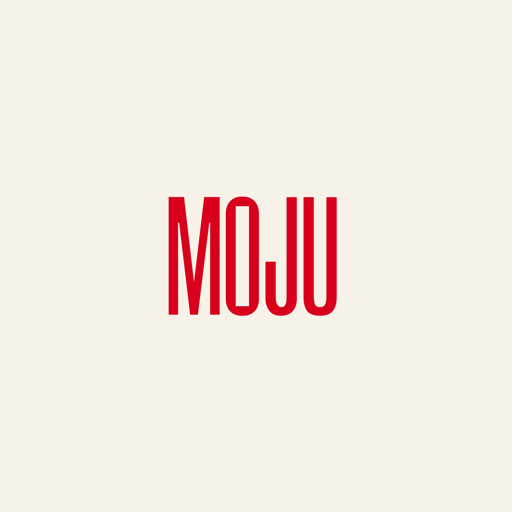
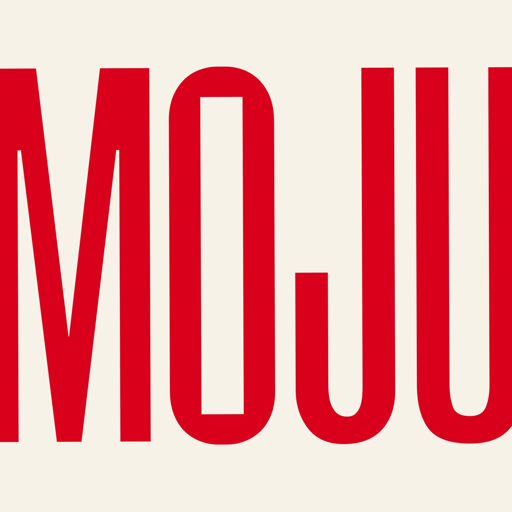
Yeni uygulama ikonu, sekme simgesi önbelleği yenilendi

diff --git a/index.html b/index.html
@@ -5,8 +5,8 @@
   <meta name="viewport" content="width=device-width, initial-scale=1">
   <title>Moju · Your life, on paper</title>
   <meta name="description" content="Moju is a notebook for everything you love: a vision board for your dreams, a travel diary for the places you've been, a journal for everyday moments. Cut photos, add videos that move on the page, washi tape and stickers, and write in your own hand.">
-  <link rel="icon" href="assets/favicon.png">
-  <link rel="apple-touch-icon" href="assets/icon.png">
+  <link rel="icon" type="image/png" href="assets/favicon.png?v=3">
+  <link rel="apple-touch-icon" href="assets/icon.png?v=3">
   <link rel="stylesheet" href="style.css">
 </head>
 <body>

diff --git a/support.html b/support.html
@@ -5,7 +5,8 @@
   <meta name="viewport" content="width=device-width, initial-scale=1">
   <title>Support · Moju</title>
   <meta name="description" content="Help with Moju: restoring purchases, saving pages, where your notebooks are stored, and how to contact us.">
-  <link rel="icon" href="assets/favicon.png">
+  <link rel="icon" type="image/png" href="assets/favicon.png?v=3">
+  <link rel="apple-touch-icon" href="assets/icon.png?v=3">
   <link rel="stylesheet" href="style.css">
 </head>
 <body>

diff --git a/privacy.html b/privacy.html
@@ -5,7 +5,8 @@
   <meta name="viewport" content="width=device-width, initial-scale=1">
   <title>Privacy Policy · Moju</title>
   <meta name="description" content="Moju does not collect any personal data. Your notebooks stay on your device.">
-  <link rel="icon" href="assets/favicon.png">
+  <link rel="icon" type="image/png" href="assets/favicon.png?v=3">
+  <link rel="apple-touch-icon" href="assets/icon.png?v=3">
   <link rel="stylesheet" href="style.css">
 </head>
 <body>
